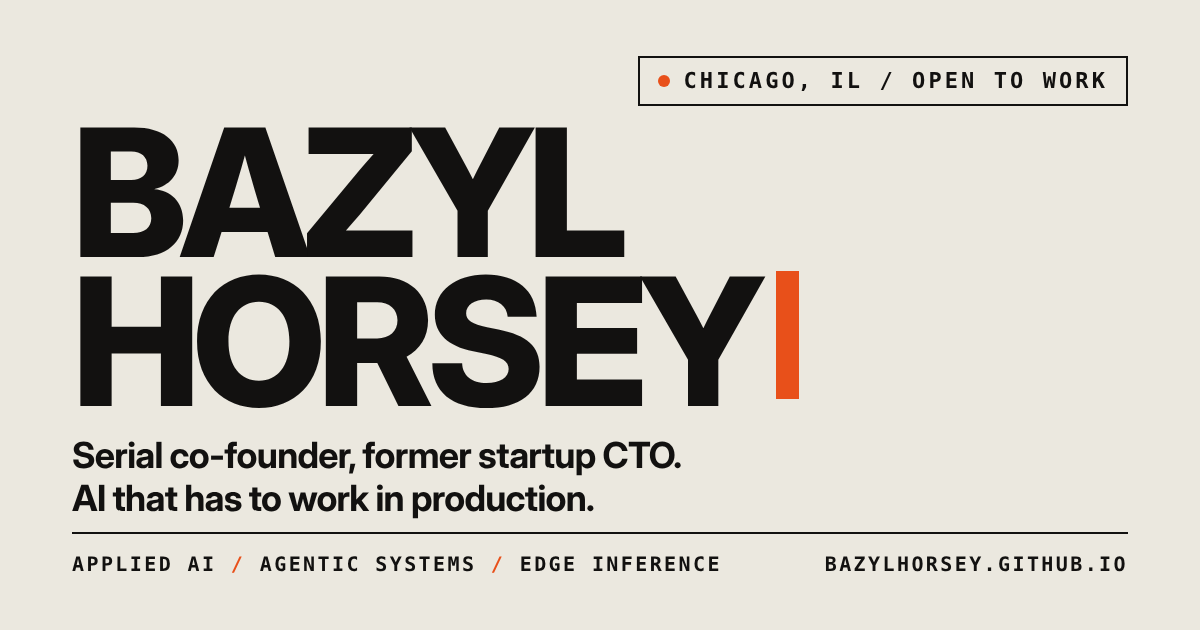
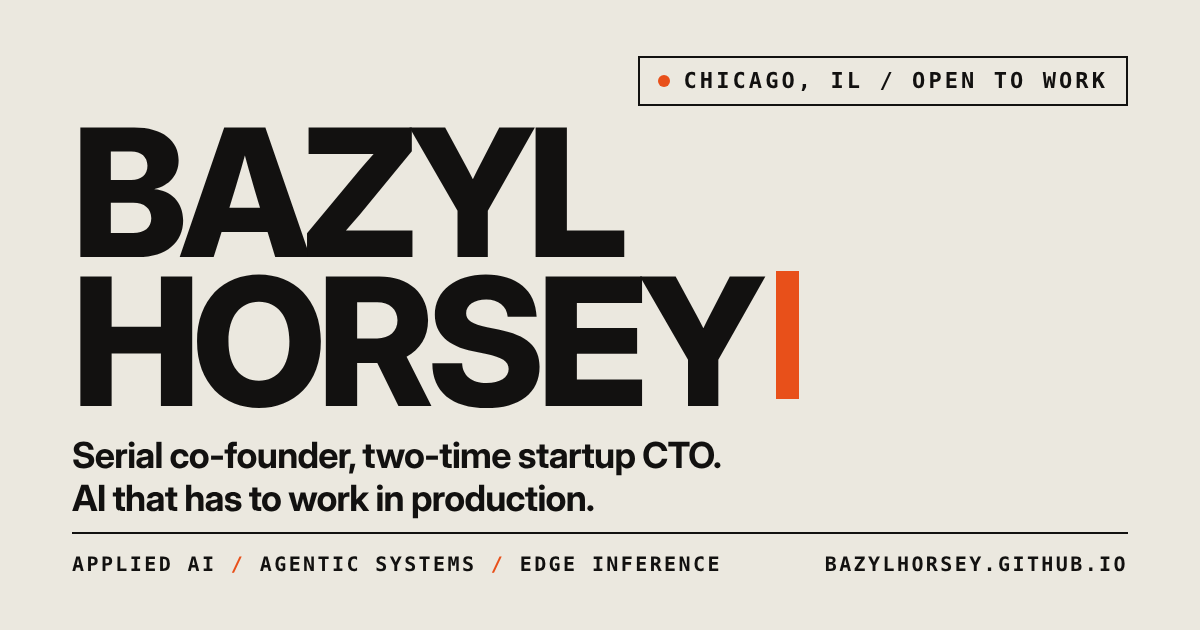
Deploy 2026-10-14

Changed region(s): [[0.3083, 0.6937, 0.6167, 0.754]]

diff --git a/index.html b/index.html
@@ -6,7 +6,7 @@
     <title>Bazyl Horsey: applied AI, agentic systems, edge inference</title>
     <meta
       name="description"
-      content="Bazyl Horsey. Serial co-founder and former startup CTO. Applied AI: agentic systems and edge inference. Chicago, IL."
+      content="Bazyl Horsey. Serial co-founder and two-time startup CTO. Applied AI: agentic systems and edge inference. Chicago, IL."
     />
     <meta name="author" content="Bazyl Horsey" />
     <meta name="color-scheme" content="light dark" />
@@ -21,7 +21,7 @@
     <meta property="og:image" content="https://bazylhorsey.github.io/og.png" />
     <meta property="og:image:width" content="1200" />
     <meta property="og:image:height" content="630" />
-    <meta property="og:image:alt" content="Bazyl Horsey. Serial co-founder and former startup CTO. Applied AI, agentic systems, edge inference." />
+    <meta property="og:image:alt" content="Bazyl Horsey. Serial co-founder and two-time startup CTO. Applied AI, agentic systems, edge inference." />
     <meta name="twitter:card" content="summary_large_image" />
     <meta name="theme-color" content="#ebe8df" />
     <script type="application/ld+json">
@@ -32,7 +32,7 @@
         "url": "https://bazylhorsey.github.io/",
         "image": "https://bazylhorsey.github.io/og.png",
         "jobTitle": "Startup CTO",
-        "description": "Serial co-founder and former startup CTO. Applied AI: agentic systems and edge inference.",
+        "description": "Serial co-founder and two-time startup CTO. Applied AI: agentic systems and edge inference.",
         "email": "mailto:bhorsey16@gmail.com",
         "address": {
           "@type": "PostalAddress",
@@ -91,7 +91,7 @@
       then sends only the diff whenever state changes. There is no markup here
       to keep in sync with anything.
     -->
-    <div id="app"><div class="page page--paper"><header class="topbar"><div class="wrap topbar-in"><span class="mark">Bazyl Horsey</span><nav class="topnav"><a href="#claim">claim</a><a href="#work">work</a><a href="#path">path</a><a href="#writing">writing</a><a href="#band">band</a><a href="#contact">contact</a></nav><button class="theme" type="button">night</button></div></header><main><section class="hero wrap"><p class="status"><span class="dot"></span>Chicago, IL / Open to work</p><h1 class="name">Bazyl <br>Horsey<span class="caret"></span></h1><p class="lede">Serial co-founder and former startup CTO. Applied AI: agentic systems and edge inference.</p><p class="claim-line">I build AI that has to work in production, not in a notebook.</p><div class="hero-actions"><a class="btn btn-solid" href="#work">What I've shipped</a><a class="btn" href="mailto:bhorsey16@gmail.com">bhorsey16@gmail.com</a></div></section><section class="section wrap" id="claim"><p class="eyebrow">01 / the claim</p><h2 class="h2">Most AI dies in procurement and uptime, not in accuracy.</h2><div><ol class="claims"><li><h3>Ship the 0→1, then make it survive.</h3><p>A platform is a demo on day one and an uptime problem on day ninety. I have taken one from the first commit to about twenty customer deployments, which is a different job than the one people pitch.</p></li><li><h3>Replace the API call when the API call is the bottleneck.</h3><p>GPT-dependent detections moved to in-house models, and one feature's spend dropped 6×. A new segmentation model took inference from 400 ms to 26 ms and GPU load at five stations from 100% to about 30%. Same accuracy requirement, different bill.</p></li><li><h3>Own the boring parts.</h3><p>ISO 27001:2022 from a standing start. SOC 2 Type I readiness. RLS multi-tenant Postgres. Hardened Linux on x86, micro-x86 and ARM. Three-minute median first response. Upkeep is hard, and it is also most of the job.</p></li></ol></div></section><section class="section wrap" id="work"><p class="eyebrow">02 / work</p><h2 class="h2">Things that exist and run.</h2><div class="filters"><button class="filter is-on" type="button">everything</button><button class="filter" type="button">frameworks</button><button class="filter" type="button">tools</button><button class="filter" type="button">upstream</button><button class="filter" type="button">experiments</button></div><ul class="work"><li class="card card-feature"><div class="card-head"><h3>Jorn</h3><span class="tag">elm</span><span class="tag">v0.0</span><span class="tag">current</span></div><p class="card-quote">Write your UI once in Elm. Run each piece in the browser, on the server, or both, and decide at deploy time. An attempt at the web framework that does not make you choose where your UI runs: pure Elm virtual DOM, a diff that runs anywhere, a JSON wire protocol, event routing, and a dependency-free browser patcher. No kernel code, no fork. This page is one of its consumers.</p><table class="roadmap"><tbody><tr><td>1</td><td>Pure Elm vdom, diff, wire protocol, event routing</td><td><span class="chip chip-done">done</span></td></tr><tr><td>2</td><td>Browser patcher, applies patches to the real DOM</td><td><span class="chip chip-done">done</span></td></tr><tr><td>3</td><td>Full HTML/SVG/MathML, keyed lists, effects, runtime</td><td><span class="chip chip-next">next</span></td></tr><tr><td>4</td><td>Server runtime over a websocket</td><td><span class="chip chip-plan">planned</span></td></tr><tr><td>5</td><td>Generated, compiler-checked encoders for shared types</td><td><span class="chip chip-plan">planned</span></td></tr><tr><td>6</td><td>Session snapshots and typed migrations across deploys</td><td><span class="chip chip-plan">planned</span></td></tr></tbody></table><a class="link" href="https://github.com/bazylhorsey/jorn">https://github.com/bazylhorsey/jorn</a></li><li class="card"><div class="card-head"><h3>obsidian-mcp-server</h3><span class="tag">typescript</span><span class="tag">22 stars</span></div><p>An MCP server that connects local and remote Obsidian vaults to desktop AI tools. Multi-vault switching, knowledge graph analysis with hubs and orphans, hybrid full-text search, backlink analysis, and vault analytics.</p><span></span><a class="link" href="https://github.com/bazylhorsey/obsidian-mcp-server">https://github.com/bazylhorsey/obsidian-mcp-server</a></li><li class="card"><div class="card-head"><h3>prompt-rust</h3><span class="tag">rust</span><span class="tag">upstream</span></div><p>A proposal to add user auto-stdin decoding to the Rust standard library, filed as rust-lang/rust#117852 and prototyped in RFC 3196. The most direct answer I have for what upstream actually feels like from the outside.</p><span></span><a class="link" href="https://github.com/bazylhorsey/prompt-rust">https://github.com/bazylhorsey/prompt-rust</a></li><li class="card"><div class="card-head"><h3>Aethos</h3><span class="tag">rust</span></div><p>A Rust take on Phoenix LiveView. Mostly valuable for what it taught me: I know the browser-versus-server component trade-off from the implementer side, which is the only way to have an opinion about it.</p><span></span><span></span></li><li class="card"><div class="card-head"><h3>Lustre</h3><span class="tag">gleam</span><span class="tag">upstream</span></div><p>Not my project: Hayleigh Thompson's Gleam web framework. Four open PRs against it, including a 337-line fix for server component context subscriptions, a replaced list.range in the diff benchmark, a re-measured effects example, and a CI workflow that runs the test suite on pushes to main. My bio says upkeep is hard. Apparently I do it anyway.</p><span></span><a class="link" href="https://github.com/lustre-labs/lustre/pulls?q=is%3Apr+author%3Abazylhorsey">https://github.com/lustre-labs/lustre/pulls?q=is%3Apr+author%3Abazylhorsey</a></li><li class="card"><div class="card-head"><h3>Frigate</h3><span class="tag">python</span><span class="tag">upstream</span></div><p>Not mine either: the open-source NVR that runs object detection on camera feeds at the edge. A merged fix to its auth cookie name pattern, and an open one for a shared-memory handle that leaked whenever a captured frame was skipped. Same class of bug as the day job, in someone else's codebase.</p><span></span><a class="link" href="https://github.com/blakeblackshear/frigate/pulls?q=is%3Apr+author%3Abazylhorsey">https://github.com/blakeblackshear/frigate/pulls?q=is%3Apr+author%3Abazylhorsey</a></li><li class="card"><div class="card-head"><h3>astonish</h3><span class="tag">python</span></div><p>A ChatGPT 3.0-era Lovable. Presented at the OpenAI Hackathon in Chicago, 2022. Kept because it is funny and because it was early.</p><span></span><a class="link" href="https://github.com/bazylhorsey/astonish">https://github.com/bazylhorsey/astonish</a></li></ul></section><section class="section wrap" id="path"><p class="eyebrow">03 / path</p><h2 class="h2">Where the scar tissue came from.</h2><div><ol class="path"><li><div class="path-when"><b>2023→now</b><span>Chicago, IL</span></div><div class="path-what"><h3>Arvist<span class="path-role">Co-founder &amp; CTO, now Technical Advisor</span></h3><p>Techstars '22. Vision AI for warehouse quality control, joined at pre-seed. $4M seed led by Rackhouse. Built the platform from first commit to about twenty customer deployments, shipping Quality, Safety, Yard Management, Productivity and Claims plus a mobile operator app and an admin console. Then built Arvist QC, the plug-and-play inspection system behind the pivot to quality: installs in a day, camera-agnostic, WMS optional. It halved a shipper's error rate at roughly 96% detection and about a second per item.</p><p>Grew engineering from solo to nine people across time zones, around 300 PRs and 131 releases in a quarter. As CISO, built the ISMS from nothing and got the company to ISO 27001:2022 and SOC 2 Type I readiness. Principal investigator on a $1M+ DoD-funded MxD ergonomic-safety AI project, deployed at PPC Flex.</p><div class="nums nums--inline"><div class="num"><b>90%+</b><span>of customer incidents traced to site power, network or hardware, not our code</span></div><div class="num"><b>10.9→3</b><span>days, median time to close a bug</span></div><div class="num"><b>400→26</b><span>ms per segmentation inference, new model</span></div><div class="num"><b>100→30%</b><span>GPU load across five edge stations</span></div><div class="num"><b>6×</b><span>less GPT spend on one feature, same output</span></div><div class="num"><b>131</b><span>versioned releases in a single quarter</span></div><div class="num"><b>3 min</b><span>median first response to a customer</span></div><div class="num"><b>9</b><span>engineers on a global team, from solo</span></div></div></div></li><li><div class="path-when"><b>2019→2022</b><span>Chicago, IL</span></div><div class="path-what"><h3>Koloni<span class="path-role">Software Manager → Application Manager → CTO</span></h3><p>Smart-locker and mobility IoT, now Accessa. Part-time in college and at Levity, full-time CTO from 2021. Led a team of five and rebuilt the legacy PHP application as FastAPI and React microservices on AWS. Built the BLE SDKs and the iOS and Android integrations behind the 2020 Smart Locker launch, which became the core business.</p><p>Led development of the hardware as well: a System on Module with BLE and LTE for the lockers, and the APIs that wrapped it. The software was the easy half.</p></div></li><li><div class="path-when"><b>2020→2021</b><span>Storm Lake, IA</span></div><div class="path-what"><h3>Levity<span class="path-role">Co-founder &amp; CEO</span></h3><p>First startup out of Buena Vista's Foundry incubator. In 2021 I brought two of its engineers to Koloni and wound it down, which I count as the best outcome any of my companies had. Earlier: built the app for Match-Learn-Launch, a $175,000 Google.org Impact Challenge winner in 2019.</p></div></li><li><div class="path-when"><b>2016→2020</b><span>Storm Lake, IA</span></div><div class="path-what"><h3>Buena Vista University<span class="path-role">BS Computer Science, minor in Communications</span></h3><p>Dean's List. President of the Robotics Club. Collegiate wrestler, which explains more about how I run engineering than any conference talk does.</p></div></li></ol></div></section><section class="section wrap" id="writing"><p class="eyebrow">04 / writing &amp; talking</p><h2 class="h2">Said out loud, on the record.</h2><div><p class="group-label">Research</p><article class="write write--paper"><p class="write-meta">peer reviewed / 2024 / second author</p><h3>Implementing concepts from green logistics in the turkey production supply chain</h3><p>Frontiers in Sustainability 5:1416964. Modeled roughly 50% lower emissions by rerouting livestock between brooders and finishers with a Gurobi optimization over distance, exclusivity, and capacity. The notebook is public, which is the point of publishing.</p><div class="write-links"><a class="link" href="https://doi.org/10.3389/frsus.2024.1416964">doi:10.3389/frsus.2024.1416964</a><a class="link" href="https://github.com/bazylhorsey/livestock-logistic-optimizer">the notebook, gurobi MIP</a></div></article><p class="group-label">Podcasts</p><div class="writes"><article class="write"><p class="write-meta">software leaders uncensored / with steve taplin</p><h3>Doesn't sugarcoat it</h3><p>Academic burnout through to running engineering at Arvist. Why scrappy beats flashy when you are building a team, why bootstrapped pragmatism beats bloated VC hype, and what most CTOs get wrong about leadership. The episode title is the whole review.</p><a class="link" href="https://youtu.be/mk7CKtatU8U">youtu.be/mk7CKtatU8U</a></article><article class="write"><p class="write-meta">deep learning leaders / with eric landau</p><h3>Building Arvist, and what AI actually needs in a warehouse</h3><p>Encord's show, hosted by their co-founder. Going deep on AI in logistics: what it takes to get a model out of a notebook and onto a dock, why the old boring methods still win more often than the shiny new thing, and where quality assurance in warehousing is heading.</p><a class="link" href="https://encord.com/deep-learning-leaders/">deep learning leaders</a></article></div><p class="group-label">Posts</p><ul class="posts"><li><a class="post" href="https://arvist.ai/vertical-monopoly/"><span class="post-meta"><b>2026.08</b><span>arvist blog</span></span><span class="post-body"><b class="post-title">Why vertical monopoly doesn't work for warehouse software anymore</b><span class="post-gist">Building software got cheap, so small niches pay now. The moat moves from owning the platform to adapting fastest to each operation.</span></span><span class="post-go">→</span></a></li><li><a class="post" href="https://arvist.ai/why-your-integration-quote-is-wrong/"><span class="post-meta"><b>2026.08</b><span>arvist blog</span></span><span class="post-body"><b class="post-title">Why your integration quote is wrong</b><span class="post-gist">Quotes price the connection. The time and money go into mapping data that doesn't line up and the scope nobody wrote down.</span></span><span class="post-go">→</span></a></li><li><a class="post" href="https://bazyl-25260.medium.com/lessons-learned-in-iot-product-development-405b569e5b4c"><span class="post-meta"><b>2021.01</b><span>medium</span></span><span class="post-body"><b class="post-title">Lessons learned in IoT product development</b><span class="post-gist">Fresh out of school and building smart lockers at Koloni: hardware, firmware and apps that all have to ship together.</span></span><span class="post-go">→</span></a></li><li><a class="post" href="https://bazyl-25260.medium.com/the-future-of-sharing-and-micro-mobility-d63b26fa405"><span class="post-meta"><b>2020.11</b><span>medium</span></span><span class="post-body"><b class="post-title">The future of sharing and micro-mobility</b><span class="post-gist">Where shared lockers, scooters and bikes were headed, from inside the business.</span></span><span class="post-go">→</span></a></li></ul></div></section><section class="band" id="band"><div class="wrap band-in"><p class="eyebrow">05 / other thing</p><h2 class="band-name">The Comedowns</h2><p class="band-sub">Chicago punk / midwest emo. Somewhere between loud and sincere.</p><ol class="tracks"><li><b>Pavement</b></li><li><b>916</b></li><li><b>Take the Wheel</b></li><li><b>360 No Scope</b></li><li><b>Statistically</b></li></ol><p class="band-note">The rest of this site is the day job. This is the night one.</p></div></section><section class="section wrap" id="contact"><p class="eyebrow">06 / contact</p><h2 class="h2">Got something worth breaking?</h2><p class="contact-lede">Roles, technical leadership, or a hard edge-inference problem. I read all of it and I answer.</p><ul class="links"><li><span class="links-k">email</span><a href="mailto:bhorsey16@gmail.com">bhorsey16@gmail.com</a></li><li><span class="links-k">github</span><a href="https://github.com/bazylhorsey">github.com/bazylhorsey</a></li><li><span class="links-k">linkedin</span><a href="https://www.linkedin.com/in/bazyl-horsey-075506139">in/bazyl-horsey</a></li><li><span class="links-k">orcid</span><a href="https://orcid.org/0009-0000-4566-0406">0009-0000-4566-0406</a></li></ul></section></main><footer class="foot"><div class="wrap foot-in"><p class="foot-line">Upkeep is hard. I do it anyway.</p><p class="foot-sub">Every element on this page is a value in an Elm program. Jorn diffs the view and ships only what changed, so there is no hand-written markup and no framework.</p><p class="foot-sub foot-fine">Written in Elm against github.com/bazylhorsey/jorn. One stylesheet, one compiled script, zero dependencies.</p></div></footer></div></div>
+    <div id="app"><div class="page page--paper"><header class="topbar"><div class="wrap topbar-in"><span class="mark">Bazyl Horsey</span><nav class="topnav"><a href="#claim">claim</a><a href="#work">work</a><a href="#path">path</a><a href="#writing">writing</a><a href="#band">band</a><a href="#contact">contact</a></nav><button class="theme" type="button">night</button></div></header><main><section class="hero wrap"><p class="status"><span class="dot"></span>Chicago, IL / Open to work</p><h1 class="name">Bazyl <br>Horsey<span class="caret"></span></h1><p class="lede">Serial co-founder and two-time startup CTO. Applied AI: agentic systems and edge inference.</p><p class="claim-line">I build AI that has to work in production, not in a notebook.</p><div class="hero-actions"><a class="btn btn-solid" href="#work">What I've shipped</a><a class="btn" href="mailto:bhorsey16@gmail.com">bhorsey16@gmail.com</a></div></section><section class="section wrap" id="claim"><p class="eyebrow">01 / the claim</p><h2 class="h2">Most AI dies in procurement and uptime, not in accuracy.</h2><div><ol class="claims"><li><h3>Ship the 0→1, then make it survive.</h3><p>A platform is a demo on day one and an uptime problem on day ninety. I have taken one from the first commit to about twenty customer deployments, which is a different job than the one people pitch.</p></li><li><h3>Replace the API call when the API call is the bottleneck.</h3><p>GPT-dependent detections moved to in-house models, and one feature's spend dropped 6×. A new segmentation model took inference from 400 ms to 26 ms and GPU load at five stations from 100% to about 30%. Same accuracy requirement, different bill.</p></li><li><h3>Own the boring parts.</h3><p>ISO 27001:2022 from a standing start. SOC 2 Type I readiness. RLS multi-tenant Postgres. Hardened Linux on x86, micro-x86 and ARM. Three-minute median first response. Upkeep is hard, and it is also most of the job.</p></li></ol></div></section><section class="section wrap" id="work"><p class="eyebrow">02 / work</p><h2 class="h2">Things that exist and run.</h2><div class="filters"><button class="filter is-on" type="button">everything</button><button class="filter" type="button">frameworks</button><button class="filter" type="button">tools</button><button class="filter" type="button">upstream</button><button class="filter" type="button">experiments</button></div><ul class="work"><li class="card card-feature"><div class="card-head"><h3>Jorn</h3><span class="tag">elm</span><span class="tag">v0.0</span><span class="tag">current</span></div><p class="card-quote">Write your UI once in Elm. Run each piece in the browser, on the server, or both, and decide at deploy time. An attempt at the web framework that does not make you choose where your UI runs: pure Elm virtual DOM, a diff that runs anywhere, a JSON wire protocol, event routing, and a dependency-free browser patcher. No kernel code, no fork. This page is one of its consumers.</p><table class="roadmap"><tbody><tr><td>1</td><td>Pure Elm vdom, diff, wire protocol, event routing</td><td><span class="chip chip-done">done</span></td></tr><tr><td>2</td><td>Browser patcher, applies patches to the real DOM</td><td><span class="chip chip-done">done</span></td></tr><tr><td>3</td><td>Full HTML/SVG/MathML, keyed lists, effects, runtime</td><td><span class="chip chip-next">next</span></td></tr><tr><td>4</td><td>Server runtime over a websocket</td><td><span class="chip chip-plan">planned</span></td></tr><tr><td>5</td><td>Generated, compiler-checked encoders for shared types</td><td><span class="chip chip-plan">planned</span></td></tr><tr><td>6</td><td>Session snapshots and typed migrations across deploys</td><td><span class="chip chip-plan">planned</span></td></tr></tbody></table><a class="link" href="https://github.com/bazylhorsey/jorn">https://github.com/bazylhorsey/jorn</a></li><li class="card"><div class="card-head"><h3>obsidian-mcp-server</h3><span class="tag">typescript</span><span class="tag">22 stars</span></div><p>An MCP server that connects local and remote Obsidian vaults to desktop AI tools. Multi-vault switching, knowledge graph analysis with hubs and orphans, hybrid full-text search, backlink analysis, and vault analytics.</p><span></span><a class="link" href="https://github.com/bazylhorsey/obsidian-mcp-server">https://github.com/bazylhorsey/obsidian-mcp-server</a></li><li class="card"><div class="card-head"><h3>prompt-rust</h3><span class="tag">rust</span><span class="tag">upstream</span></div><p>A proposal to add user auto-stdin decoding to the Rust standard library, filed as rust-lang/rust#117852 and prototyped in RFC 3196. The most direct answer I have for what upstream actually feels like from the outside.</p><span></span><a class="link" href="https://github.com/bazylhorsey/prompt-rust">https://github.com/bazylhorsey/prompt-rust</a></li><li class="card"><div class="card-head"><h3>Aethos</h3><span class="tag">rust</span></div><p>A Rust take on Phoenix LiveView. Mostly valuable for what it taught me: I know the browser-versus-server component trade-off from the implementer side, which is the only way to have an opinion about it.</p><span></span><span></span></li><li class="card"><div class="card-head"><h3>Lustre</h3><span class="tag">gleam</span><span class="tag">upstream</span></div><p>Not my project: Hayleigh Thompson's Gleam web framework. Four open PRs against it, including a 337-line fix for server component context subscriptions, a replaced list.range in the diff benchmark, a re-measured effects example, and a CI workflow that runs the test suite on pushes to main. My bio says upkeep is hard. Apparently I do it anyway.</p><span></span><a class="link" href="https://github.com/lustre-labs/lustre/pulls?q=is%3Apr+author%3Abazylhorsey">https://github.com/lustre-labs/lustre/pulls?q=is%3Apr+author%3Abazylhorsey</a></li><li class="card"><div class="card-head"><h3>Frigate</h3><span class="tag">python</span><span class="tag">upstream</span></div><p>Not mine either: the open-source NVR that runs object detection on camera feeds at the edge. A merged fix to its auth cookie name pattern, and an open one for a shared-memory handle that leaked whenever a captured frame was skipped. Same class of bug as the day job, in someone else's codebase.</p><span></span><a class="link" href="https://github.com/blakeblackshear/frigate/pulls?q=is%3Apr+author%3Abazylhorsey">https://github.com/blakeblackshear/frigate/pulls?q=is%3Apr+author%3Abazylhorsey</a></li><li class="card"><div class="card-head"><h3>astonish</h3><span class="tag">python</span></div><p>A ChatGPT 3.0-era Lovable. Presented at the OpenAI Hackathon in Chicago, 2022. Kept because it is funny and because it was early.</p><span></span><a class="link" href="https://github.com/bazylhorsey/astonish">https://github.com/bazylhorsey/astonish</a></li></ul></section><section class="section wrap" id="path"><p class="eyebrow">03 / path</p><h2 class="h2">Where the scar tissue came from.</h2><div><ol class="path"><li><div class="path-when"><b>2023→now</b><span>Chicago, IL</span></div><div class="path-what"><h3>Arvist<span class="path-role">Co-founder &amp; CTO, now Technical Advisor</span></h3><p>Techstars '22. Vision AI for warehouse quality control, joined at pre-seed. $4M seed led by Rackhouse. Built the platform from first commit to about twenty customer deployments, shipping Quality, Safety, Yard Management, Productivity and Claims plus a mobile operator app and an admin console. Then built Arvist QC, the plug-and-play inspection system behind the pivot to quality: installs in a day, camera-agnostic, WMS optional. It halved a shipper's error rate at roughly 96% detection and about a second per item.</p><p>Grew engineering from solo to nine people across time zones, around 300 PRs and 131 releases in a quarter. As CISO, built the ISMS from nothing and got the company to ISO 27001:2022 and SOC 2 Type I readiness. Principal investigator on a $1M+ DoD-funded MxD ergonomic-safety AI project, deployed at PPC Flex.</p><div class="nums nums--inline"><div class="num"><b>90%+</b><span>of customer incidents traced to site power, network or hardware, not our code</span></div><div class="num"><b>10.9→3</b><span>days, median time to close a bug</span></div><div class="num"><b>400→26</b><span>ms per segmentation inference, new model</span></div><div class="num"><b>100→30%</b><span>GPU load across five edge stations</span></div><div class="num"><b>6×</b><span>less GPT spend on one feature, same output</span></div><div class="num"><b>131</b><span>versioned releases in a single quarter</span></div><div class="num"><b>3 min</b><span>median first response to a customer</span></div><div class="num"><b>9</b><span>engineers on a global team, from solo</span></div></div></div></li><li><div class="path-when"><b>2019→2022</b><span>Chicago, IL</span></div><div class="path-what"><h3>Koloni<span class="path-role">Software Manager → Application Manager → CTO</span></h3><p>Smart-locker and mobility IoT, now Accessa. Part-time in college and at Levity, full-time CTO from 2021. Led a team of five and rebuilt the legacy PHP application as FastAPI and React microservices on AWS. Built the BLE SDKs and the iOS and Android integrations behind the 2020 Smart Locker launch, which became the core business.</p><p>Led development of the hardware as well: a System on Module with BLE and LTE for the lockers, and the APIs that wrapped it. The software was the easy half.</p></div></li><li><div class="path-when"><b>2020→2021</b><span>Storm Lake, IA</span></div><div class="path-what"><h3>Levity<span class="path-role">Co-founder &amp; CEO</span></h3><p>First startup out of Buena Vista's Foundry incubator. In 2021 I brought two of its engineers to Koloni and wound it down, which I count as the best outcome any of my companies had. Earlier: built the app for Match-Learn-Launch, a $175,000 Google.org Impact Challenge winner in 2019.</p></div></li><li><div class="path-when"><b>2016→2020</b><span>Storm Lake, IA</span></div><div class="path-what"><h3>Buena Vista University<span class="path-role">BS Computer Science, minor in Communications</span></h3><p>Dean's List. President of the Robotics Club. Collegiate wrestler, which explains more about how I run engineering than any conference talk does.</p></div></li></ol></div></section><section class="section wrap" id="writing"><p class="eyebrow">04 / writing &amp; talking</p><h2 class="h2">Said out loud, on the record.</h2><div><p class="group-label">Research</p><article class="write write--paper"><p class="write-meta">peer reviewed / 2024 / second author</p><h3>Implementing concepts from green logistics in the turkey production supply chain</h3><p>Frontiers in Sustainability 5:1416964. Modeled roughly 50% lower emissions by rerouting livestock between brooders and finishers with a Gurobi optimization over distance, exclusivity, and capacity. The notebook is public, which is the point of publishing.</p><div class="write-links"><a class="link" href="https://doi.org/10.3389/frsus.2024.1416964">doi:10.3389/frsus.2024.1416964</a><a class="link" href="https://github.com/bazylhorsey/livestock-logistic-optimizer">the notebook, gurobi MIP</a></div></article><p class="group-label">Podcasts</p><div class="writes"><article class="write"><p class="write-meta">software leaders uncensored / with steve taplin</p><h3>Doesn't sugarcoat it</h3><p>Academic burnout through to running engineering at Arvist. Why scrappy beats flashy when you are building a team, why bootstrapped pragmatism beats bloated VC hype, and what most CTOs get wrong about leadership. The episode title is the whole review.</p><a class="link" href="https://youtu.be/mk7CKtatU8U">youtu.be/mk7CKtatU8U</a></article><article class="write"><p class="write-meta">deep learning leaders / with eric landau</p><h3>Building Arvist, and what AI actually needs in a warehouse</h3><p>Encord's show, hosted by their co-founder. Going deep on AI in logistics: what it takes to get a model out of a notebook and onto a dock, why the old boring methods still win more often than the shiny new thing, and where quality assurance in warehousing is heading.</p><a class="link" href="https://encord.com/deep-learning-leaders/">deep learning leaders</a></article></div><p class="group-label">Posts</p><ul class="posts"><li><a class="post" href="https://arvist.ai/vertical-monopoly/"><span class="post-meta"><b>2026.08</b><span>arvist blog</span></span><span class="post-body"><b class="post-title">Why vertical monopoly doesn't work for warehouse software anymore</b><span class="post-gist">Building software got cheap, so small niches pay now. The moat moves from owning the platform to adapting fastest to each operation.</span></span><span class="post-go">→</span></a></li><li><a class="post" href="https://arvist.ai/why-your-integration-quote-is-wrong/"><span class="post-meta"><b>2026.08</b><span>arvist blog</span></span><span class="post-body"><b class="post-title">Why your integration quote is wrong</b><span class="post-gist">Quotes price the connection. The time and money go into mapping data that doesn't line up and the scope nobody wrote down.</span></span><span class="post-go">→</span></a></li><li><a class="post" href="https://bazyl-25260.medium.com/lessons-learned-in-iot-product-development-405b569e5b4c"><span class="post-meta"><b>2021.01</b><span>medium</span></span><span class="post-body"><b class="post-title">Lessons learned in IoT product development</b><span class="post-gist">Fresh out of school and building smart lockers at Koloni: hardware, firmware and apps that all have to ship together.</span></span><span class="post-go">→</span></a></li><li><a class="post" href="https://bazyl-25260.medium.com/the-future-of-sharing-and-micro-mobility-d63b26fa405"><span class="post-meta"><b>2020.11</b><span>medium</span></span><span class="post-body"><b class="post-title">The future of sharing and micro-mobility</b><span class="post-gist">Where shared lockers, scooters and bikes were headed, from inside the business.</span></span><span class="post-go">→</span></a></li></ul></div></section><section class="band" id="band"><div class="wrap band-in"><p class="eyebrow">05 / other thing</p><h2 class="band-name">The Comedowns</h2><p class="band-sub">Chicago punk / midwest emo. Somewhere between loud and sincere.</p><ol class="tracks"><li><b>Pavement</b></li><li><b>916</b></li><li><b>Take the Wheel</b></li><li><b>360 No Scope</b></li><li><b>Statistically</b></li></ol><p class="band-note">The rest of this site is the day job. This is the night one.</p></div></section><section class="section wrap" id="contact"><p class="eyebrow">06 / contact</p><h2 class="h2">Got something worth breaking?</h2><p class="contact-lede">Roles, technical leadership, or a hard edge-inference problem. I read all of it and I answer.</p><ul class="links"><li><span class="links-k">email</span><a href="mailto:bhorsey16@gmail.com">bhorsey16@gmail.com</a></li><li><span class="links-k">github</span><a href="https://github.com/bazylhorsey">github.com/bazylhorsey</a></li><li><span class="links-k">linkedin</span><a href="https://www.linkedin.com/in/bazyl-horsey-075506139">in/bazyl-horsey</a></li><li><span class="links-k">orcid</span><a href="https://orcid.org/0009-0000-4566-0406">0009-0000-4566-0406</a></li></ul></section></main><footer class="foot"><div class="wrap foot-in"><p class="foot-line">Upkeep is hard. I do it anyway.</p><p class="foot-sub">Every element on this page is a value in an Elm program. Jorn diffs the view and ships only what changed, so there is no hand-written markup and no framework.</p><p class="foot-sub foot-fine">Written in Elm against github.com/bazylhorsey/jorn. One stylesheet, one compiled script, zero dependencies.</p></div></footer></div></div>
 
     <script src="build/main.js"></script>
     <script type="module">

diff --git a/source/public/index.html b/source/public/index.html
@@ -6,7 +6,7 @@
     <title>Bazyl Horsey: applied AI, agentic systems, edge inference</title>
     <meta
       name="description"
-      content="Bazyl Horsey. Serial co-founder and former startup CTO. Applied AI: agentic systems and edge inference. Chicago, IL."
+      content="Bazyl Horsey. Serial co-founder and two-time startup CTO. Applied AI: agentic systems and edge inference. Chicago, IL."
     />
     <meta name="author" content="Bazyl Horsey" />
     <meta name="color-scheme" content="light dark" />
@@ -21,7 +21,7 @@
     <meta property="og:image" content="https://bazylhorsey.github.io/og.png" />
     <meta property="og:image:width" content="1200" />
     <meta property="og:image:height" content="630" />
-    <meta property="og:image:alt" content="Bazyl Horsey. Serial co-founder and former startup CTO. Applied AI, agentic systems, edge inference." />
+    <meta property="og:image:alt" content="Bazyl Horsey. Serial co-founder and two-time startup CTO. Applied AI, agentic systems, edge inference." />
     <meta name="twitter:card" content="summary_large_image" />
     <meta name="theme-color" content="#ebe8df" />
     <script type="application/ld+json">
@@ -32,7 +32,7 @@
         "url": "https://bazylhorsey.github.io/",
         "image": "https://bazylhorsey.github.io/og.png",
         "jobTitle": "Startup CTO",
-        "description": "Serial co-founder and former startup CTO. Applied AI: agentic systems and edge inference.",
+        "description": "Serial co-founder and two-time startup CTO. Applied AI: agentic systems and edge inference.",
         "email": "mailto:bhorsey16@gmail.com",
         "address": {
           "@type": "PostalAddress",

diff --git a/build/main.js b/build/main.js
@@ -4778,7 +4778,7 @@ var $author$project$Main$hero = A2(
 				]),
 			_List_fromArray(
 				[
-					$author$project$Jorn$Element$text('Serial co-founder and former startup CTO. Applied AI: agentic ' + 'systems and edge inference.')
+					$author$project$Jorn$Element$text('Serial co-founder and two-time startup CTO. Applied AI: agentic ' + 'systems and edge inference.')
 				])),
 			A2(
 			$author$project$Jorn$Element$Html$p,
